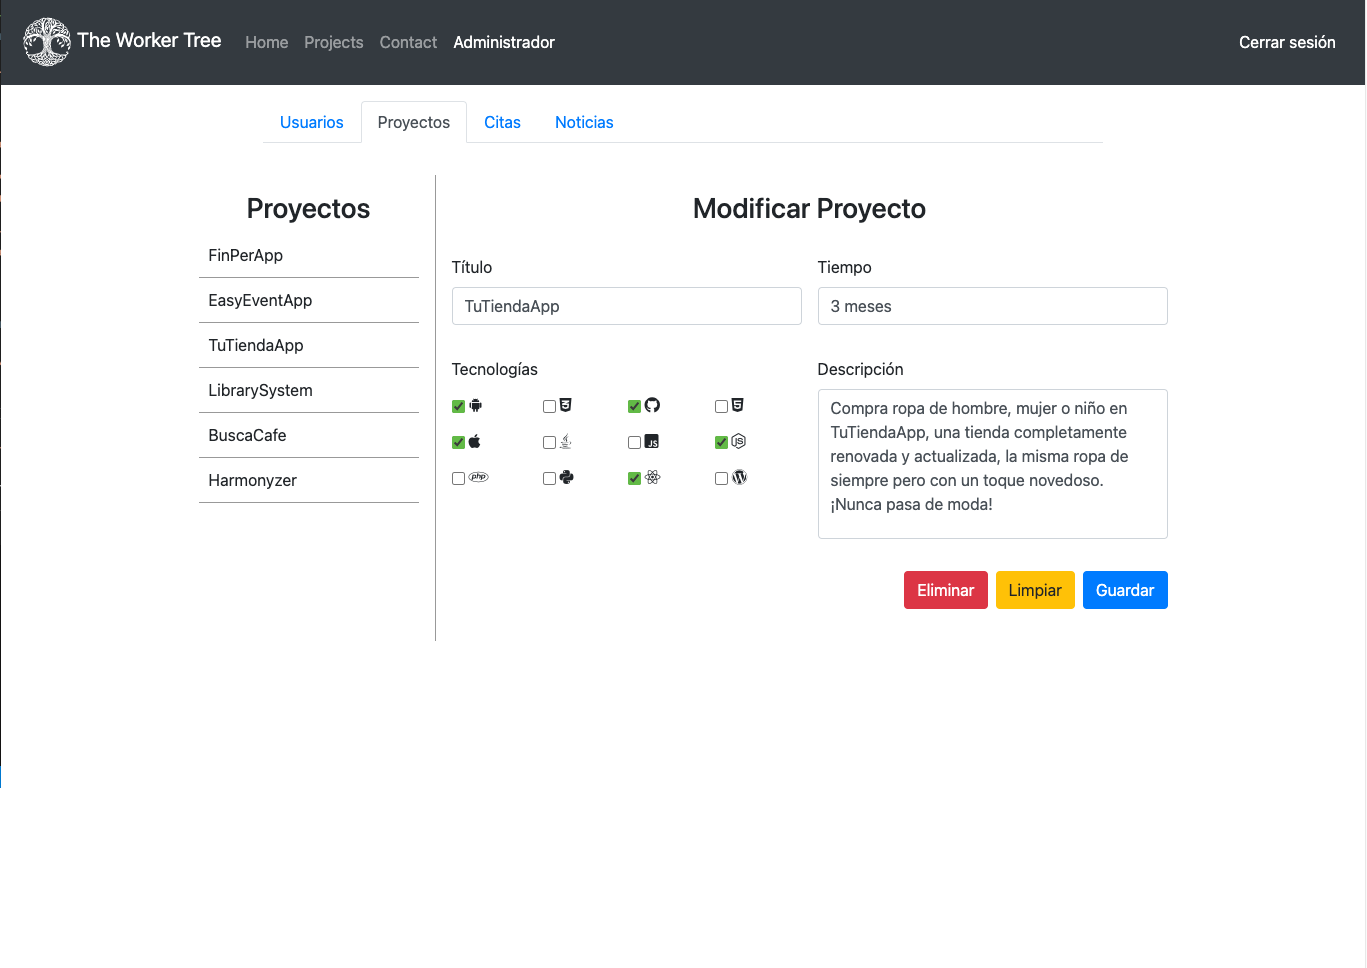
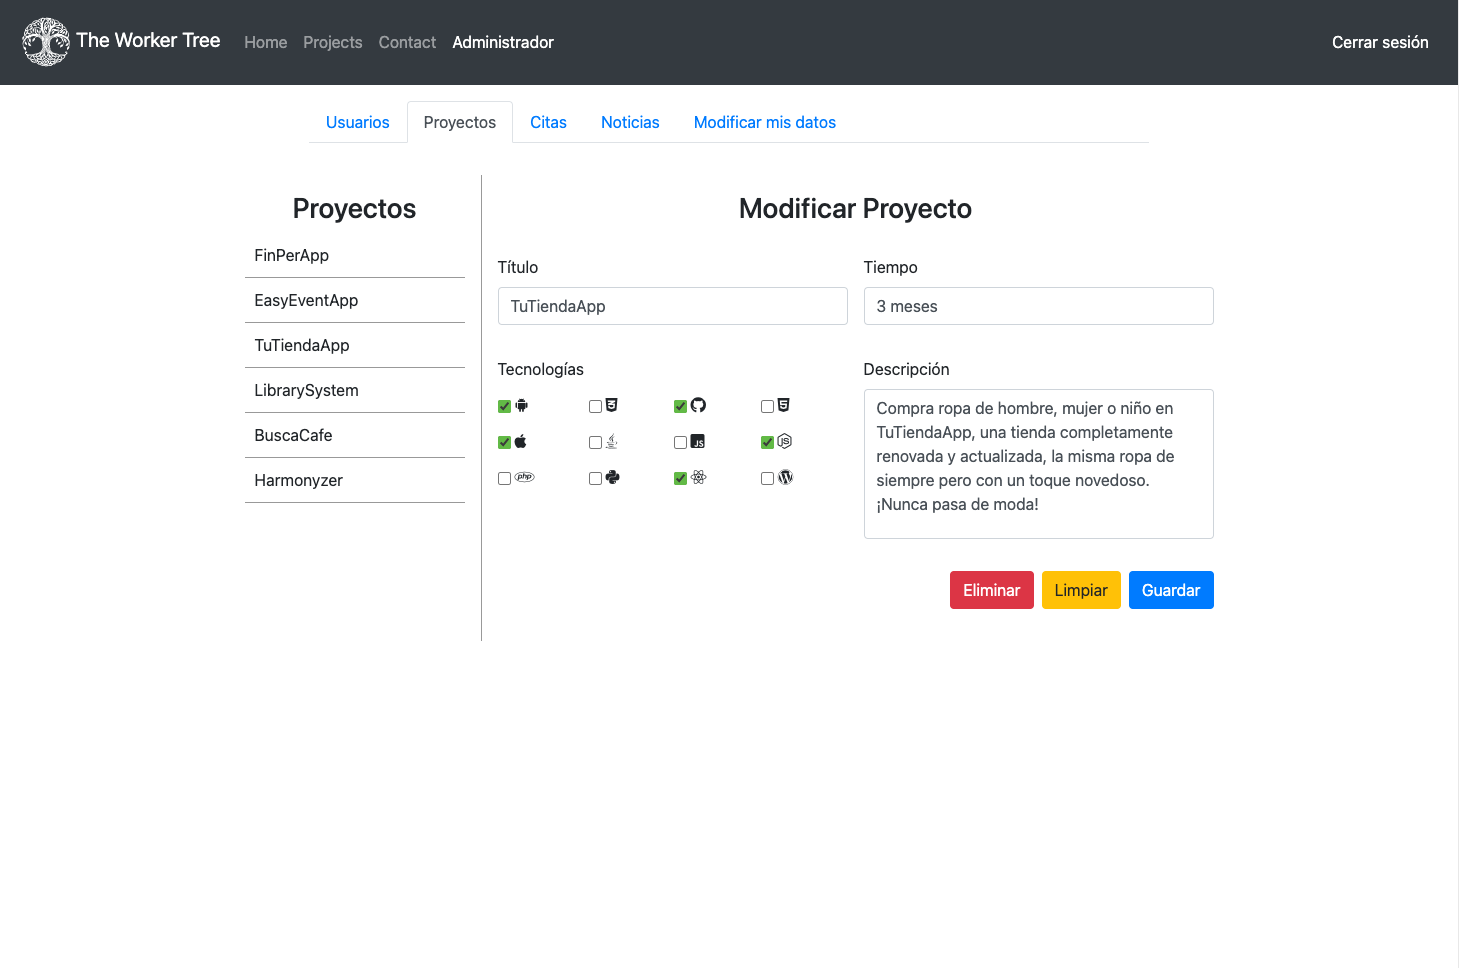
add modify data to admin

diff --git a/controllers/user_controller.php b/controllers/user_controller.php
@@ -110,6 +110,12 @@ class UserController{
       case 'getAll':
         echo $model->getAll();
         break;
+      case 'changePersonalData':
+        echo $this->users->updateReg($_SERVER['HTTP_USER_ID'],$_POST);
+        break;
+      case 'changePassword':
+        echo $this->users->changePassword($_SERVER['HTTP_USER_ID'],$_POST);
+        break;
       default:
         echo "Invalid Admin Action";
         break;
@@ -182,7 +188,8 @@ class UserController{
         'noticias' => $this->news->getAll(),
         'proyectos' => $this->projects->getAll(),
         'citas' => $this->dates->getAll(),
-        'usuarios' => $this->users->getAll()
+        'usuarios' => $this->users->getAll($user_id),
+        'user_data' => $this->users->getOne($user_id)
       );
     }else if($role == "user"){
       $initial_content = array(

diff --git a/views/user.php b/views/user.php
@@ -24,6 +24,9 @@
     <li class="nav-item" role="presentation">
       <a class="nav-link" id="noticias-tab" data-toggle="tab" href="#noticias" role="tab" aria-controls="noticias" aria-selected="false">Noticias</a>
     </li>
+    <li class="nav-item" role="presentation">
+      <a class="nav-link" id="mis-datos-tab" data-toggle="tab" href="#datos" role="tab" aria-controls="datos" aria-selected="false">Modificar mis datos</a>
+    </li>
   </ul>
   <div class="tab-content" id="admin-tabs-content">
     <?php 
@@ -31,6 +34,7 @@
     include_once "user_sections/admin/projects_list_form.php";
     include_once "user_sections/admin/dates_list_form.php";
     include_once "user_sections/admin/news_list_form.php";
+    include_once "user_sections/personal_data.php";
     ?>
   </div>
 </div>

diff --git a/views/user_sections/admin/users_list_form.php b/views/user_sections/admin/users_list_form.php
@@ -35,7 +35,10 @@
         </div>
         <div class="form-group">
           <label for="role">Rol</label>
-          <input type="text" id="role-input" class="form-control user-input" name="role">
+          <select name="role" class="form-control role-select">
+            <option value="user" selected="true">Usuario</option>
+            <option value="admin">Administrador</option>
+          </select>
         </div>
         <div class="input-error"></div>
         <div class="form-group save-group">

diff --git a/models/users_model.php b/models/users_model.php
@@ -12,8 +12,8 @@ class UsersModel{
 
   // CRUD Operations & Close Connection
 
-  public function getAll(){
-    $sql = "SELECT `id`,".$this->columns." FROM `usuarios` WHERE 1";
+  public function getAll($adminId){
+    $sql = "SELECT `id`,".$this->columns." FROM `usuarios` WHERE `id` NOT LIKE ".$adminId;
     return $this->returnData($sql);
   }
 
